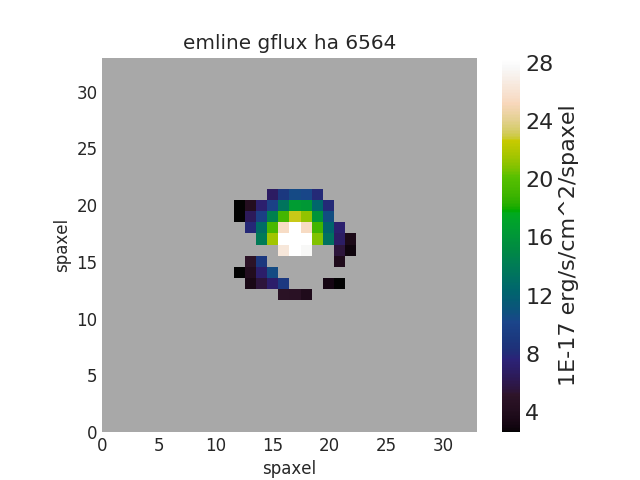
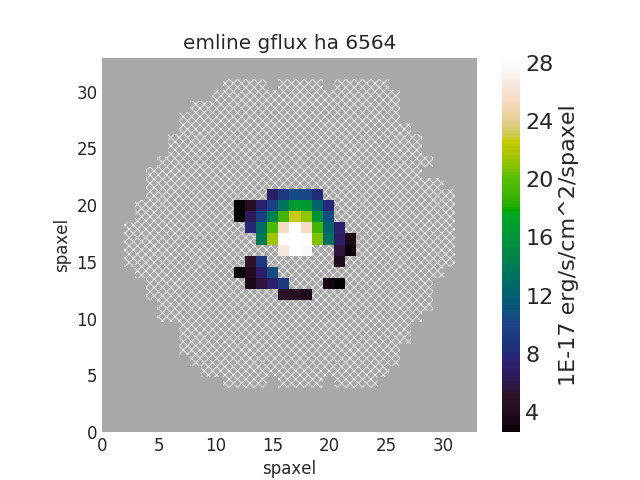
adds multipanel multi-galaxy plot to tutorial

Changed region(s): [[0.1875, 0.1562, 0.7188, 0.8125]]

diff --git a/docs/sphinx/tutorials/plotting.rst b/docs/sphinx/tutorials/plotting.rst
@@ -61,6 +61,8 @@ Quick Model Fit Plot
 
     from marvin.tools.maps import Maps
     maps = Maps(plateifu='8485-1901')
+    # must use Maps.getSpaxel() to get modelcube
+    # (the bracket slicing of Maps does not return the modelcube)
     spax = maps.getSpaxel(x=17, y=17, xyorig='lower', modelcube=True)
     ax = spax.spectrum.plot()
     ax.plot(spax.model.wavelength, spax.model.flux)
@@ -82,8 +84,8 @@ BPT Plot
 .. image:: ../_static/bpt.png
 
 
-Multi-panel Map Plot
---------------------
+Multi-panel Map Plot (Single Galaxy)
+------------------------------------
 
 .. code-block:: python
 
@@ -104,6 +106,33 @@ Multi-panel Map Plot
     fig.tight_layout()
 
 .. image:: ../_static/multipanel.png
+
+
+
+Multi-panel Map Plot (Multiple Galaxies)
+----------------------------------------
+
+.. code-block:: python
+
+    import matplotlib.pyplot as plt
+    from marvin.tools.maps import Maps
+    import marvin.utils.plot.map as mapplot
+    plt.style.use('seaborn-darkgrid')  # set matplotlib style sheet
+
+    plateifus = ['8485-1901', '8485-1902', '8485-12701']
+    mapnames = ['stellar_vel', 'stellar_sigma']
+
+    rows = len(plateifus)
+    cols = len(mapnames)
+    fig, axes = plt.subplots(rows, cols, figsize=(8, 12))
+    for row, plateifu in zip(axes, plateifus):
+        maps = Maps(plateifu=plateifu)
+        for ax, mapname in zip(row, mapnames):
+            mapplot.plot(dapmap=maps[mapname], fig=fig, ax=ax, title=' '.join((plateifu, mapname)))
+
+    fig.tight_layout()
+
+.. image:: ../_static/multipanel_kinematics.png
 
 
 Custom Axis and Colorbar Locations for Map Plot
@@ -148,16 +177,24 @@ Custom Spectrum and Model Fit
 .. image:: ../_static/spec_7992-6101.png
 
 
-Map Using BPT Mask
------------------
+Plot Halpha Map of Star-forming Spaxels
+---------------------------------------
 
 .. code-block:: python
 
+    import numpy as np
     from marvin.tools.maps import Maps
     maps = Maps(plateifu='8485-1901')
     ha = maps['emline_gflux_ha_6564']
     masks, __ = maps.get_bpt(show_plot=False)
-    ha.plot(mask=~masks['sf']['global'])
+
+    # Return the complement of the BPT global star-forming mask (True == star-forming) using `~`
+    # and set bit 30 (DONOTUSE) for non-star-forming spaxels.
+    mask_non_sf = ~masks['sf']['global'] * 2**30
+
+    # Bitwise OR between DAP mask and non-star-forming mask
+    mask = ha.mask | mask_non_sf
+    ha.plot(mask=mask)
 
 .. image:: ../_static/map_bpt_mask.png
 
